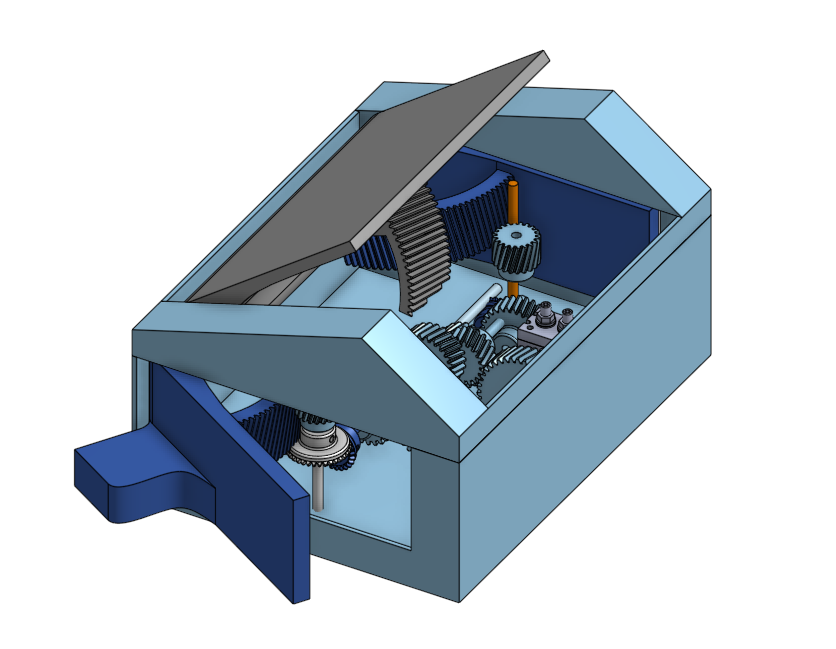
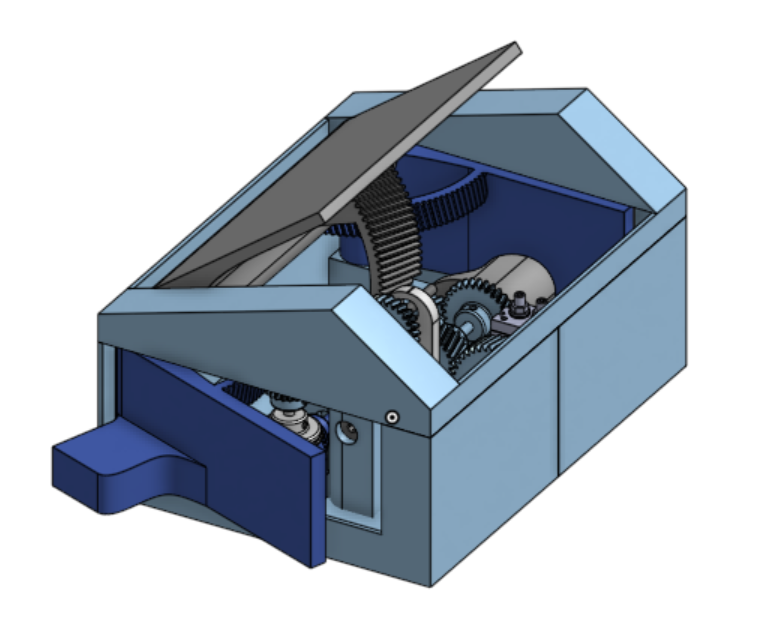
update ankle box gallery: reorder images, add new assets and mp4 video
- Reorder gallery rows: concept sketch/gearing first, CAD renders second
- Add Anklebox1.png, anklebox transparent.png, prototype1.png, prototyping.jpeg
- Replace .mov with 1st prototype.mp4 for cross-browser video support
- Add gallery-item--full CSS helper for full-width last row

Changed region(s): [[0.0615, 0.0611, 0.8912, 0.9469]]

diff --git a/resume.html b/resume.html
@@ -1456,6 +1456,7 @@
         <div class="gallery-section">
           <h3 class="gallery-title">Design &amp; Prototyping</h3>
           <div class="gallery-grid">
+            <!-- Row 1: Concept sketch + gearing calculations -->
             <div class="gallery-item">
               <div class="gallery-image-container">
                 <img src="assets/anklebox/csketch anklebox.jpeg" alt="Ankle Box concept sketch" class="gallery-image">
@@ -1463,22 +1464,37 @@
             </div>
             <div class="gallery-item">
               <div class="gallery-image-container">
-                <img src="assets/anklebox/CAD gearing system.png" alt="CAD model of gearing system" class="gallery-image">
-              </div>
-            </div>
-            <div class="gallery-item">
-              <div class="gallery-image-container">
                 <img src="assets/anklebox/Gearing system calculations.jpeg" alt="Gearing system engineering calculations" class="gallery-image">
               </div>
             </div>
+            <!-- Row 2: CAD renders -->
             <div class="gallery-item">
               <div class="gallery-image-container">
-                <img src="assets/anklebox/side swivel.jpeg" alt="Side swivel mechanism detail" class="gallery-image">
+                <img src="assets/anklebox/Anklebox1.png" alt="Ankle Box CAD render" class="gallery-image">
               </div>
             </div>
             <div class="gallery-item">
               <div class="gallery-image-container">
-                <img src="assets/anklebox/side gears.jpeg" alt="Side gears detail" class="gallery-image">
+                <img src="assets/anklebox/anklebox transparent.png" alt="Ankle Box transparent render" class="gallery-image">
+              </div>
+            </div>
+            <!-- Row 3: First prototype photo + video -->
+            <div class="gallery-item">
+              <div class="gallery-image-container">
+                <img src="assets/anklebox/prototype1.png" alt="First prototype" class="gallery-image">
+              </div>
+            </div>
+            <div class="gallery-item">
+              <div class="gallery-image-container">
+                <video controls class="gallery-image" style="object-fit: contain; background: #000;">
+                  <source src="assets/anklebox/1st prototype.mp4" type="video/mp4">
+                </video>
+              </div>
+            </div>
+            <!-- Row 4: Prototyping process (full width) -->
+            <div class="gallery-item gallery-item--full">
+              <div class="gallery-image-container">
+                <img src="assets/anklebox/prototyping.jpeg" alt="Prototyping process" class="gallery-image">
               </div>
             </div>
           </div>

diff --git a/src/css/modal.css b/src/css/modal.css
@@ -455,6 +455,10 @@
   flex: 1;
 }
 
+.gallery-item--full {
+  grid-column: 1 / -1;
+}
+
 .gallery-item:hover {
   transform: translateY(-2px);
   box-shadow: 0 8px 25px rgba(0, 0, 0, 0.1);